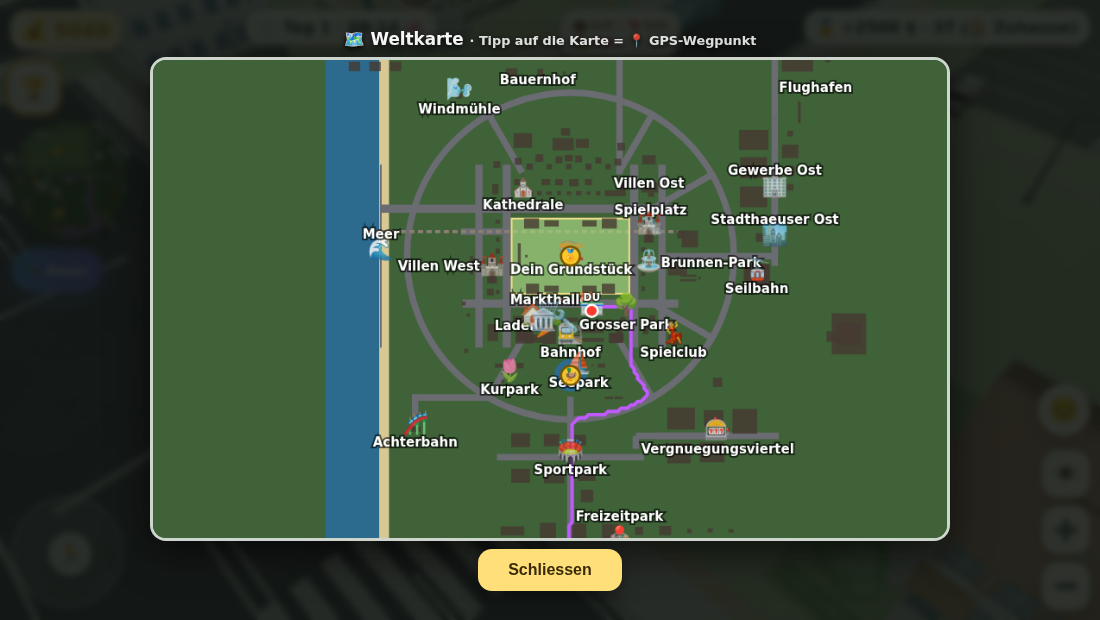
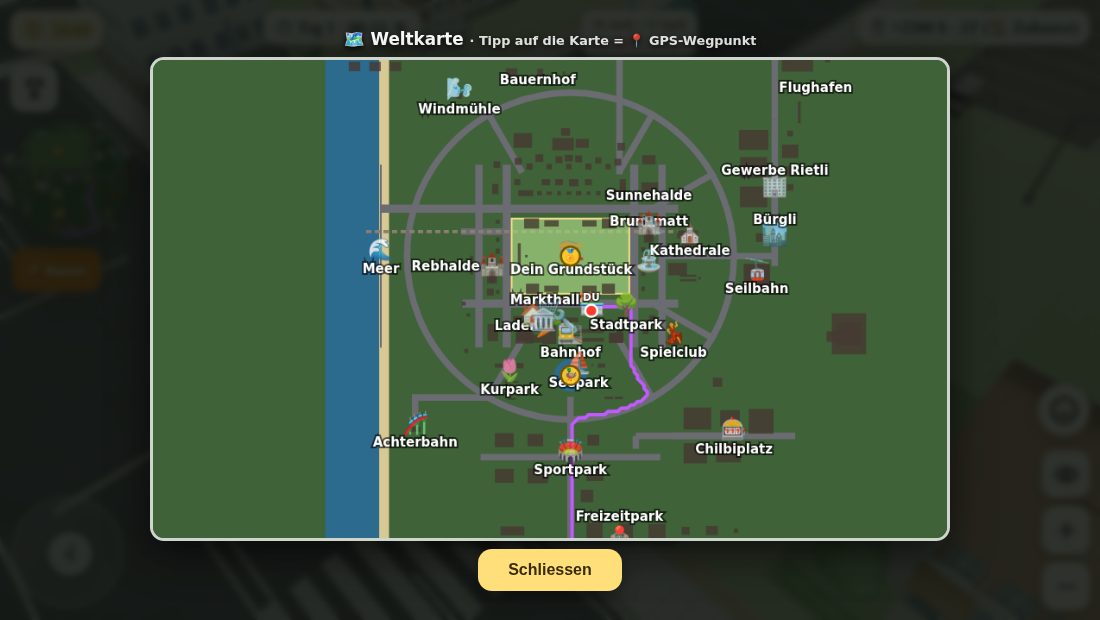
Runde 79/80: Kathedrale wiedergefunden, erfundener Fortschritt entfernt, Handy-Steuerung repariert (#2512)
* th-vielfalt versteckte genau die Zeilen, die man braucht

Die Ausgabe war auf die 24 eintoenigsten Gruppen beschraenkt, sortiert nach
Streuung — und die faellt mit der Stueckzahl. Kompakte Gruppen haben typischerweise
weniger Stueck und rutschen damit aus der Liste, die laut Runbook als einzige
handlungsfaehig ist ("verstreut = geteiltes Material, kompakt = Fund"). Beim Lauf
mit Schwelle 12 war keine einzige kompakte Zeile mehr dabei.

Dieselbe Art Fehler wie zweimal zuvor in dieser Sitzung: das Messgeraet war nicht
ungenau, es hat die falsche Frage beantwortet. Eintoenigkeit ohne Ballung ist gar
kein Fund.

Jetzt zwei Listen: die eintoenigsten wie bisher (16 Zeilen), darunter die
kompakten (hoechstens 80 m weit) nach Stueckzahl.

Claude-Session: https://claude.ai/code/session_01Jixy2uM4hmaHxJFgNxvdo6

* Ein Zaun, vierzehn Zeilen — kompakte Gruppen werden gebuendelt

Der Parkzaun am Spielplatz erschien vierzehnmal untereinander, einmal je Teilmesh
eines Moduls (Pfosten, Latten, Beschlag), jedes mit denselben 34 Stueck am selben
Ort. Als Liste von DINGEN gelesen ist das Unsinn; gemeint ist ein Zaun. Zeilen mit
gleichem Namen am gleichen Ort werden jetzt zusammengefasst und nennen die Zahl
der Teilmeshes.

Claude-Session: https://claude.ai/code/session_01Jixy2uM4hmaHxJFgNxvdo6

* Der Ort heisst Spielplatz, sieht aber nicht danach aus

spielplatz.png bei (145|-22): ein grosses graues Gebaeude auf gepflasterter
[…]

diff --git a/traumhaus.html b/traumhaus.html
@@ -748,6 +748,8 @@ var TEXLOADER=new THREE.TextureLoader();
 /* 🧱 WELT-KOLLISION (frueh deklariert, damit alle Bau-Funktionen registrieren koennen) */
 /* 🗺 Orte der Welt — gemeinsame Quelle fuer Radar + grosse Karte (User: „map ist noch zu klein") */
 var WORLD_POIS=[
+  /* ⚠ Die Zahlen hier sind nur der Startwert — die echte Lage zieht `domMarke()`
+     beim Bau der Kathedrale nach (siehe dort). Wer sie hier aendert, aendert nichts. */
   [-58,-78,"⛪","Kathedrale"],[-136,-196,"🌬","Windmühle"],[-40,-196,"🚜","Bauernhof"],
   [-26,95,"🥕","Markthalle"],[-24,74,"🛒","Laden"],[-6,88,"🔧","Werkstatt"],[-46,80,"🏠","Stadthaus"],
   [-33,86,"🏛","Altstadt"],[68,68,"🌳","Stadtpark"],[96,14,"⛲","Brunnmatt"],
@@ -8306,6 +8308,24 @@ setTimeout(function baueGebaeude(){
     addSolid(DOM_X,DOM_Z+0.95,17.6,20.7,{a:"z",at:DOM_SW-0.5,c:DOM_X,w:4.5});
     bau("th8_kirche_offen.glb",13,DOM_X,0,DOM_Z,Math.PI,false,
         function(w){w.userData.fest=true;},true);
+    /* 🗺 DIE MARKE STAND 216 M DANEBEN. In WORLD_POIS liegt „⛪ Kathedrale" auf
+       (-58|-78) — dort steht aber GEMESSEN (Modelle im Umkreis 30 m) kein Kirchenbau,
+       sondern ein Wohnhaus, drei Baeume, zwei Laternen, Muelleimer, Briefkasten und
+       ein Blumenbeet. Die Kathedrale selbst (13 m hoch, 20,5 m breit) steht hier auf
+       (146|-22) und hatte gar keine Marke: `_naechsterOrt(146,-22)` lieferte
+       „Spielplatz", 48 m entfernt.
+       Das ist nicht nur die Karte. `_naechsterOrt` beschriftet die ORTSSCHILDER, und
+       Lieferauftraege fuehren zu POIs — ein Schild vor der Kathedrale haette
+       „Spielplatz" gesagt. Der Kommentar oben nennt den Grund: der Bau stand frueher
+       114 Zeilen weiter oben an anderer Stelle. Das Gebaeude ist umgezogen, die Marke
+       nicht.
+       Darum wird sie hier NACHGEZOGEN statt in der Liste hart gesetzt: sie haengt an
+       denselben DOM_X/DOM_Z, die auch den Bau stellen. Dieselbe Loesung wie bei
+       `marke()` in viertel() — Namensgleichheit genuegt. */
+    (function domMarke(){
+      for(var i=0;i<WORLD_POIS.length;i++)
+        if(WORLD_POIS[i][3]==="Kathedrale"){WORLD_POIS[i][0]=DOM_X;WORLD_POIS[i][1]=DOM_Z;return;}
+    })();
     (function domVorplatz(){
       /* ⚠ Alles war auf DZ+12 gerechnet — mit der gemessenen Portalwand bei
          Anker+11,2 haette das Pflaster IN der Kirche gelegen. Jetzt relativ zur
@@ -11375,7 +11395,16 @@ var ACHFORT={
  verliebt:[function(){return Math.round(liebe||0);},60,null],
  grossfamilie:[function(){return kinder.length;},3,"Kind"],
  gaertner:[function(){return stats.ernten||0;},5,"Ernte"],
- bankraeuber:[function(){return skills.krimi.lv||1;},2,"Ganoven-Level"],
+ /* ⚠ HIER STAND `skills.krimi.lv||1` — und das hat Fortschritt ERFUNDEN. Die
+    Schreibweise ist von der Zeile darueber uebernommen, wo sie harmlos ist: `arbeit`
+    startet bei lv 1, das `||1` faengt dort nur undefined ab. `krimi` startet aber bei
+    0 (siehe skills-Initialisierung), und `0||1` ist 1. Das Spiel meldete damit ab der
+    ersten Sekunde „Nur noch 1 Ganoven-Level bis Profi-Ganove", ohne dass jemand je
+    etwas angestellt hatte.
+    GEFUNDEN ueber das Tor: th-meter fiel in 2 von 3 Laeufen aus, weil dieser
+    Schein-Fast-Erfolg je nach Reihenfolge das Rennen um den Anstupser gewann. Ein
+    einzelner Vergleichslauf haette mich das dem eigenen Zweig zuschreiben lassen. */
+ bankraeuber:[function(){return skills.krimi.lv||0;},2,"Ganoven-Level"],
  angler:[function(){return stats.fische||0;},5,"Fisch"],
  lieferheld:[function(){return stats.lieferungen||0;},5,"Lieferung"],
  stuntpilot:[function(){return stats.stunts||0;},10,"Sprung"],
@@ -14876,20 +14905,35 @@ addEventListener("wheel",function(e){
       camTx=Math.max(-130,Math.min(130,camTx+(P9.x-camTx)*f9));
       camTz=Math.max(-130,Math.min(130,camTz+(P9.z-camTz)*f9));}}
 },{passive:true});
+/* 📱 LAUFEN UND UMSEHEN ZUGLEICH — `targetTouches`, NICHT `touches`.
+   ⚠ Hier stand `e.touches`, und das ist die Liste ALLER Finger auf dem Schirm, nicht
+   nur derer auf der Leinwand. Wer mit dem linken Daumen den Joystick haelt (ein
+   eigenes Element) und mit dem rechten die Kamera dreht, erzeugte damit
+   `touches.length === 2` — der Zug landete im ZOOM-Zweig, und der Joystick-Daumen
+   ging als zweiter Finger einer Kneif-Geste durch.
+   GEMESSEN (th-steuerung, Handy-Format 844x390): mit gehaltenem Joystick aenderte
+   sich camA um 0,0000, camRT dagegen um 3,51 — die Kamera drehte sich nicht, sie
+   zoomte. Damit war das, was man auf dem Handy die ganze Zeit tut — gehen und sich
+   dabei umsehen —, schlicht nicht moeglich.
+   `targetTouches` enthaelt nur die Finger, die auf DIESEM Element begonnen haben.
+   Der Daumen auf dem Joystick zaehlt damit nicht mehr mit; die echte Zwei-Finger-Geste
+   auf der Leinwand bleibt unveraendert (eigene Pruefung im Werkzeug). */
 renderer.domElement.addEventListener("touchstart",function(e){
   window._lastTouch=performance.now();
-  if(e.touches.length===1){dragging=true;lx=e.touches[0].clientX;ly=e.touches[0].clientY;downT=performance.now();downX=lx;downY=ly;
+  var tt=e.targetTouches;
+  if(tt.length===1){dragging=true;lx=tt[0].clientX;ly=tt[0].clientY;downT=performance.now();downX=lx;downY=ly;
     _paintSet=new Set();_paintHinted=false;paintFloorAt(lx,ly);
     if(buildMode)ghostFollow(lx,ly);} /* 🩹 Schwarm-4: Vorschau folgte nur der Maus — auf dem Handy klebte der Geist im Ursprung */
-  else if(e.touches.length===2){pinchD=Math.hypot(e.touches[0].clientX-e.touches[1].clientX,e.touches[0].clientY-e.touches[1].clientY);}
+  else if(tt.length===2){pinchD=Math.hypot(tt[0].clientX-tt[1].clientX,tt[0].clientY-tt[1].clientY);}
 },{passive:true});
 renderer.domElement.addEventListener("touchmove",function(e){
   window._lastTouch=performance.now();
-  if(e.touches.length===1&&dragging){var dx=e.touches[0].clientX-lx,dy=e.touches[0].clientY-ly;lx=e.touches[0].clientX;ly=e.touches[0].clientY;
+  var tt=e.targetTouches;
+  if(tt.length===1&&dragging){var dx=tt[0].clientX-lx,dy=tt[0].clientY-ly;lx=tt[0].clientX;ly=tt[0].clientY;
     if(buildMode)ghostFollow(lx,ly); /* 🩹 Schwarm-4: Vorschau zieht mit dem Finger mit */
     if(paintFloorAt(lx,ly)){/* 🎨 Boden-Malen — Kamera drehen geht weiter mit 2 Fingern */}
     else{camAT=null;window._camHandT=performance.now();camA-=dx*0.006;camB=Math.max(0.25,Math.min(1.35,camB+dy*0.005));updCam();}}
-  else if(e.touches.length===2){var nd=Math.hypot(e.touches[0].clientX-e.touches[1].clientX,e.touches[0].clientY-e.touches[1].clientY);
+  else if(tt.length===2){var nd=Math.hypot(tt[0].clientX-tt[1].clientX,tt[0].clientY-tt[1].clientY);
     camRT=Math.max(7,Math.min(135,camRT-(nd-pinchD)*0.06));pinchD=nd;}
   e.preventDefault();},{passive:false});
 renderer.domElement.addEventListener("touchend",function(e){dragging=false;

diff --git a/spiele-dev/RUNBOOK-TRAUMHAUS.md b/spiele-dev/RUNBOOK-TRAUMHAUS.md
@@ -6612,3 +6612,69 @@ statt der 4,04 m, die sich aus dem Verhaeltnis 9,15/68 der Feldbreite ergeben).
 Spalte „Wo" nach einem Ortsnamen suchen. Und wer dort etwas findet, rechnet die Masse
 gegen die ECHTEN Verhaeltnisse nach statt gegen das Augenmass — der zweite Fehler am
 Spielfeld war ohne Zollstock nicht zu sehen.
+
+## Triage einer roten Torzeile: EIN Vergleichslauf traegt kein Urteil
+
+Gelernt 2026-09-11 an `th-meter` („Letzter Meter"). Der uebliche Dreischritt lautet:
+eigener Fehler — Altlast auf `main` — Flackern. Der Fehler steckt darin, wie man den
+mittleren Punkt prueft.
+
+Ablauf, der diesmal in die Irre fuehrte:
+
+1. Zeile rot auf dem eigenen Zweig, Wiederholung ebenfalls rot → kein Flackern.
+2. EIN Lauf gegen `main` → gruen. Schluss: „also mein Fehler."
+3. Drei Laeufe gegen `main` → **2 von 3 rot**, mit derselben Meldung.
+
+Die Pruefung war nicht wacklig — sie meldete einen ECHTEN Fehler (`skills.krimi.lv||1`
+erfand Fortschritt), der je nach Reihenfolge mal sichtbar wurde und mal nicht. Wer
+nach dem ersten gruenen `main`-Lauf aufhoert, hat zwei Moeglichkeiten, falsch zu
+liegen: sich fremde Fehler zuschreiben, oder einen echten Befund als Altlast abtun.
+
+**Regel:** mindestens drei Laeufe je Seite, bevor eine rote Zeile eingeordnet wird.
+
+⚠ **Und den Vergleich im SELBEN Verzeichnis fahren.** Ein `git worktree` plus
+`TH_REPO` reicht nicht: der HTTP-Server (Port 8899) bedient das Hauptverzeichnis, die
+Sonde landet im Arbeitsbaum, und die Seite findet gar kein `window.__th` — das sieht
+aus wie ein Absturz des Spiels und ist doch nur die Vorrichtung. Stattdessen:
+
+    git checkout origin/main -- traumhaus.html   # main einspielen
+    node spiele-dev/tools/th-<pruefung>.mjs      # messen
+    git checkout HEAD -- traumhaus.html          # zuruecknehmen
+
+Mit einer Gegenprobe im selben Befehl (z. B. `grep -c <eigenes Stichwort>`, das vorher
+0 und nachher wieder die erwartete Zahl liefern muss) — sonst misst man womoeglich die
+falsche Datei und merkt es nicht.
+
+## `e.touches` ist nicht `e.targetTouches` — und auf dem Handy ist das der Unterschied
+## zwischen „gehen und sich umsehen" und „gar nicht"
+
+Gefunden 2026-09-11 mit dem neuen `th-steuerung.mjs`. Die Kamera-Handler der Leinwand
+verzweigten ueber `e.touches.length` (1 = drehen, 2 = zoomen). `touches` ist aber die
+Liste ALLER Finger auf dem Schirm, nicht nur derer auf dem angesprochenen Element. Der
+linke Daumen auf dem Joystick — ein eigenes DOM-Element — zaehlte damit als zweiter
+Finger einer Kneif-Geste.
+
+GEMESSEN bei 844x390: mit gehaltenem Joystick aenderte sich `camA` um **0,0000** und
+`camRT` um **3,51**. Die Kamera drehte sich nicht, sie zoomte. Damit war das, was man
+auf dem Handy die ganze Zeit tut, schlicht nicht moeglich — und keine der 47
+Torpruefungen hat es je bemerkt, weil **keine einzige die Steuerung gemessen hat**.
+
+`targetTouches` enthaelt nur Finger, die auf DIESEM Element begonnen haben. Nach der
+Umstellung: `camA` ±0,36, `camRT` ±0,00, und die echte Zwei-Finger-Geste zoomt weiter.
+
+**Zwei Lehren fuers Messen von Bedienung:**
+
+1. **Beruehrungen von Hand bauen.** Nur so laesst sich der Unterschied zwischen
+   `touches` und `targetTouches` ueberhaupt nachstellen — ein echter Fingertipp im
+   Test fuellt beide Listen gleich.
+2. **Das Messfenster an die SPIELZEIT haengen, nicht an die Wanduhr.** Der erste Lauf
+   meldete dreimal dieselben 0,20 m und sah aus, als liefe die Figur nicht; im
+   Headless-Browser vergehen in 1,2 s Echtzeit ein, zwei Bilder. Mit `warteWeltzeit`
+   waren es 9,20 m. Dieselbe Falle steht seit jeher im Kopf von `th-reichweite` — und
+   ich bin trotzdem hineingetreten. Das Werkzeug prueft darum jetzt selbst, ob sein
+   Fenster lang genug war.
+
+⚠ Und eine Falle der Vorrichtung: `page.mouse.wheel` kam in zwei Laeufen
+unterschiedlich an (einmal gar kein Zoom, einmal der rechnerisch exakte Wert). Nicht
+das Spiel war unzuverlaessig, sondern die Zustellung. Rad-Ereignisse werden darum
+selbst gebaut und per `dispatchEvent` geschickt.
